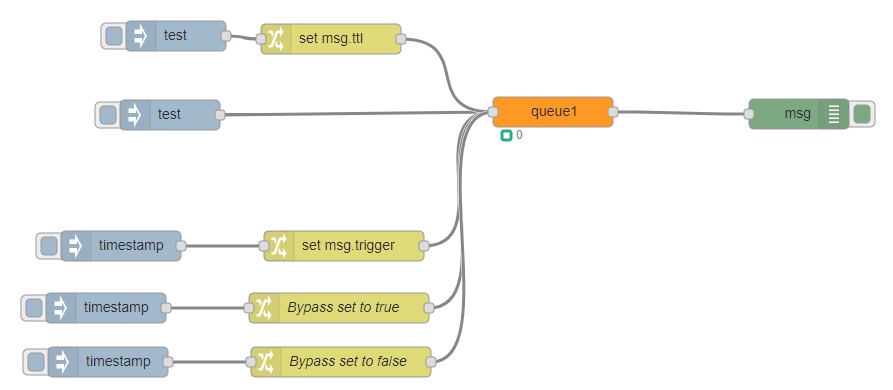
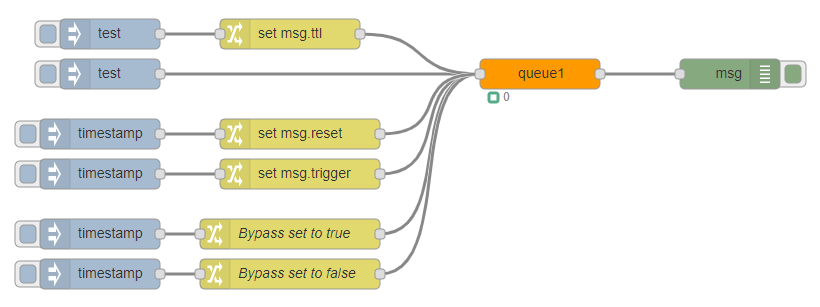
Added bypass functions

Changed region(s): [[0.0, 0.0293, 1.0, 0.9967]]

diff --git a/simple-message-queue.html b/simple-message-queue.html
@@ -18,17 +18,29 @@
         <label for="node-input-name"><i class="icon-tag"></i> Name</label>
         <input type="text" id="node-input-name" placeholder="Name"/>
     </div>
+    <div class="form-row">
+        <input type="checkbox" id="node-input-firstMessageBypass" style="display:inline-block; width:auto; vertical-align:top;" />
+        <label for="node-input-firstMessageBypass" style="width:70%;"></i> Bypass first message?</label>
+    </div>
+    <div class="form-row">
+        <label for="node-input-bypassInterval" style="width:70%;"><i class="fa fa-clock-o"></i> Bypass interval (milliseconds):</label>
+        <input type="text" id="node-input-bypassInterval" placeholder="Bypass interval"/>
+    </div>
 </script>
 
 <script type="text/x-red" data-help-name="simple-queue">
   <p>
   	Use this node to store incoming messages in memory queue. Use a feedback from a following action to release the next message.
   	<br/><br/>
-
     <h3>Inputs</h3><br/>
     <b>trigger</b>: If a message is received with this property, one message from queue will be released.<br/>
     <b>reset</b>: If a message is received with this property, queue will be cleared.<br/>
+    <b>bypass</b>: If a message is received with this property and set to True, queue will be cleared and stops the node from queueing new messages and just passes them through until an message with bypass property and False value is received.</br>
     <b>ttl</b>: If a message is received with this property, message added to the queue will live in the queue for specific value in milliseconds. The value of the TTL must be a non-negative integer (0 <= n), describing the TTL period in milliseconds. Thus a value of 1000 means that a message added to the queue will live in the queue for 1 second or until it is delivered.
+    <br/><br/>
+    <h3>Config</h3><br/>
+    <b>Bypass first message?</b>: If this flag set to True, first message only will be bypassed. Message with Reset property will resume this behaviour. False by default.<br/>
+    <b>Bypass interval</b>: If this value greater than 0, node will wait for specific interval in milliseconds and if only one message in queue, message will be released.<br/>
   </p>
 </script>
 
@@ -37,7 +49,9 @@
         category: 'storage',
         color: '#ff9900',
         defaults: {
-            name: {value:"queue1"}
+            name: {value: "queue1" },
+            firstMessageBypass: {value: false },
+            bypassInterval: {value:"0", validate:RED.validators.regex(/^\+?(0|[1-9]\d*)$/) },
         },
         inputs: 1,
         outputs: 1,

diff --git a/simple-message-queue.js b/simple-message-queue.js
@@ -23,10 +23,13 @@ module.exports = function(RED) {
 
 		RED.nodes.createNode(this, config);
 		this.name = config.name;
+		this.firstMessageBypass = config.firstMessageBypass || false;
+		this.bypassInterval = config.bypassInterval || 0;
+		var isFirstMessage = true;
 		var node = this;
 		
 		// Yes it's true: an incoming message just happened
-		node.on("input", function(msg) {
+		this.on("input", function(msg) {
 			var now = Date.now;
 			var context = node.context();
 
@@ -37,6 +40,7 @@ module.exports = function(RED) {
 			// if the msg is a reset, clear queue
 			if (msg.hasOwnProperty("reset")) {
 		        context.queue = [];
+		        isFirstMessage = true;
 			} else if (msg.hasOwnProperty("bypass")) {
 				if(msg.bypass) {
 					context.is_disabled = false;
@@ -54,7 +58,8 @@ module.exports = function(RED) {
 		            node.send(m);
 			    }
 			} else {
-				if(context.is_disabled) {
+				if(context.is_disabled || (node.firstMessageBypass && isFirstMessage)) {
+					isFirstMessage = false;
 					node.send(msg);
 				} else {
 					// Check if ttl value of new message is positive integer
@@ -69,13 +74,25 @@ module.exports = function(RED) {
 					context.queue = context.queue.filter( function(x) {
 						return ((now() - x._queuetimestamp) < x.ttl || x.ttl == 0);
 					});
+
+					if(node.bypassInterval > 0) {
+						setTimeout(function() {
+							if(context.queue.length == 1) {
+								var m = context.queue.shift();
+								node.send(m);
+								// Update status
+								node.status({fill:"green",shape:"ring",text: context.queue.length});
+							}
+						}, node.bypassInterval);
+					}
 				}
 			}
+
 			// Update status
 			node.status({fill:"green",shape:"ring",text: context.queue.length});
 		});
 
-		node.on("close", function() {
+		this.on("close", function() {
 			// Update status
 			node.status({fill:"green",shape:"ring",text: 0});
 		});

diff --git a/README.md b/README.md
@@ -12,11 +12,15 @@ uses a feedback from a following action to release the next message.
 
 **reset**: If a message is received with this property, queue will be cleared.
 
-**bypass**: If a message is received with this property and set to True, queue will be cleared and stops the node from queueing new messages and just passes them through until an message with bypass property and False value is received.
-
 **ttl**: If a message is received with this property, message added to the queue will live in the queue for specific value in milliseconds. The value of the TTL must be a non-negative integer (0 <= n), describing the TTL period in milliseconds. Thus a value of 1000 means that a message added to the queue will live in the queue for 1 second or until it is delivered.
+
+**Config**
+
+**Bypass first message?**: If this flag set to True, first message only will be bypassed. Message with Reset property will resume this behaviour. False by default.
+
+**Bypass interval**: If this value greater than 0, node will wait for specific interval in milliseconds and if only one message in queue, message will be released.
 
 This node is based on https://gist.github.com/dceejay/cea8afa28b7a93ebdc0f - respect to @dceejay (Dave Conway-Jones) https://github.com/dceejay
 
 Here's a demo flow:
-`[{"id":"fe09fb63.f859e8","type":"inject","z":"e089622.6a906a","name":"","topic":"","payload":"test","payloadType":"str","repeat":"","crontab":"","once":false,"x":281,"y":179,"wires":[["4f212c8f.028784"]]},{"id":"cdb38d47.cd149","type":"debug","z":"e089622.6a906a","name":"","active":true,"console":"false","complete":"true","x":910,"y":178,"wires":[]},{"id":"4b9c998a.373cc8","type":"inject","z":"e089622.6a906a","name":"","topic":"","payload":"","payloadType":"date","repeat":"","crontab":"","once":false,"x":232,"y":310,"wires":[["eda764e1.8074b8"]]},{"id":"eda764e1.8074b8","type":"change","z":"e089622.6a906a","name":"","rules":[{"t":"set","p":"trigger","pt":"msg","to":"1","tot":"str"}],"action":"","property":"","from":"","to":"","reg":false,"x":455,"y":310,"wires":[["4f212c8f.028784"]]},{"id":"c5d04e3b.efe1f","type":"inject","z":"e089622.6a906a","name":"","topic":"","payload":"","payloadType":"date","repeat":"","crontab":"","once":false,"x":217,"y":372,"wires":[["4f231841.69dd78"]]},{"id":"4f231841.69dd78","type":"change","z":"e089622.6a906a","name":"Bypass set to true","rules":[{"t":"set","p":"bypass","pt":"msg","to":"true","tot":"bool"}],"action":"","property":"","from":"","to":"","reg":false,"x":450,"y":372,"wires":[["4f212c8f.028784"]]},{"id":"49783823.727dd8","type":"inject","z":"e089622.6a906a","name":"","topic":"","payload":"test","payloadType":"str","repeat":"","crontab":"","once":false,"x":287,"y":100,"wires":[["b6103616.738bb8"]]},{"id":"b6103616.738bb8","type":"change","z":"e089622.6a906a","name":"","rules":[{"t":"set","p":"ttl","pt":"msg","to":"2000","tot":"str"}],"action":"","property":"","from":"","to":"","reg":false,"x":442,"y":103,"wires":[["4f212c8f.028784"]]},{"id":"4f212c8f.028784","type":"simple-queue","z":"e089622.6a906a","name":"queue1","x":664,"y":176,"wires":[["cdb38d47.cd149"]]},{"id":"61c94eb4.f285e","type":"inject","z":"e089622.6a906a","name":"","topic":"","payload":"","payloadType":"date","repeat":"","crontab":"","once":false,"x":219,"y":426,"wires":[["f80b3fd.988a6c"]]},{"id":"f80b3fd.988a6c","type":"change","z":"e089622.6a906a","name":"Bypass set to false","rules":[{"t":"set","p":"bypass","pt":"msg","to":"false","tot":"bool"}],"action":"","property":"","from":"","to":"","reg":false,"x":452,"y":426,"wires":[["4f212c8f.028784"]]}]`
+`[{"id":"fe09fb63.f859e8","type":"inject","z":"e089622.6a906a","name":"","topic":"","payload":"test","payloadType":"str","repeat":"","crontab":"","once":false,"x":250,"y":160,"wires":[["73e84f44.05735"]]},{"id":"cdb38d47.cd149","type":"debug","z":"e089622.6a906a","name":"","active":true,"console":"false","complete":"true","x":870,"y":160,"wires":[]},{"id":"4b9c998a.373cc8","type":"inject","z":"e089622.6a906a","name":"","topic":"","payload":"","payloadType":"date","repeat":"","crontab":"","once":false,"x":240,"y":260,"wires":[["eda764e1.8074b8"]]},{"id":"eda764e1.8074b8","type":"change","z":"e089622.6a906a","name":"","rules":[{"t":"set","p":"trigger","pt":"msg","to":"1","tot":"str"}],"action":"","property":"","from":"","to":"","reg":false,"x":440,"y":260,"wires":[["73e84f44.05735"]]},{"id":"c5d04e3b.efe1f","type":"inject","z":"e089622.6a906a","name":"","topic":"","payload":"","payloadType":"date","repeat":"","crontab":"","once":false,"x":240,"y":320,"wires":[["4f231841.69dd78"]]},{"id":"4f231841.69dd78","type":"change","z":"e089622.6a906a","name":"Bypass set to true","rules":[{"t":"set","p":"bypass","pt":"msg","to":"true","tot":"bool"}],"action":"","property":"","from":"","to":"","reg":false,"x":430,"y":320,"wires":[["73e84f44.05735"]]},{"id":"49783823.727dd8","type":"inject","z":"e089622.6a906a","name":"","topic":"","payload":"test","payloadType":"str","repeat":"","crontab":"","once":false,"x":250,"y":120,"wires":[["b6103616.738bb8"]]},{"id":"b6103616.738bb8","type":"change","z":"e089622.6a906a","name":"","rules":[{"t":"set","p":"ttl","pt":"msg","to":"2000","tot":"str"}],"action":"","property":"","from":"","to":"","reg":false,"x":430,"y":120,"wires":[["73e84f44.05735"]]},{"id":"61c94eb4.f285e","type":"inject","z":"e089622.6a906a","name":"","topic":"","payload":"","payloadType":"date","repeat":"","crontab":"","once":false,"x":240,"y":360,"wires":[["f80b3fd.988a6c"]]},{"id":"f80b3fd.988a6c","type":"change","z":"e089622.6a906a","name":"Bypass set to false","rules":[{"t":"set","p":"bypass","pt":"msg","to":"false","tot":"bool"}],"action":"","property":"","from":"","to":"","reg":false,"x":430,"y":360,"wires":[["73e84f44.05735"]]},{"id":"86543cdf.3706c","type":"inject","z":"e089622.6a906a","name":"","topic":"","payload":"","payloadType":"date","repeat":"","crontab":"","once":false,"x":240,"y":220,"wires":[["6d3ba29e.ea192c"]]},{"id":"6d3ba29e.ea192c","type":"change","z":"e089622.6a906a","name":"","rules":[{"t":"set","p":"reset","pt":"msg","to":"1","tot":"str"}],"action":"","property":"","from":"","to":"","reg":false,"x":440,"y":220,"wires":[["73e84f44.05735"]]},{"id":"73e84f44.05735","type":"simple-queue","z":"e089622.6a906a","name":"queue1","firstMessageBypass":false,"bypassInterval":"0","x":680,"y":160,"wires":[["cdb38d47.cd149"]]}]`
